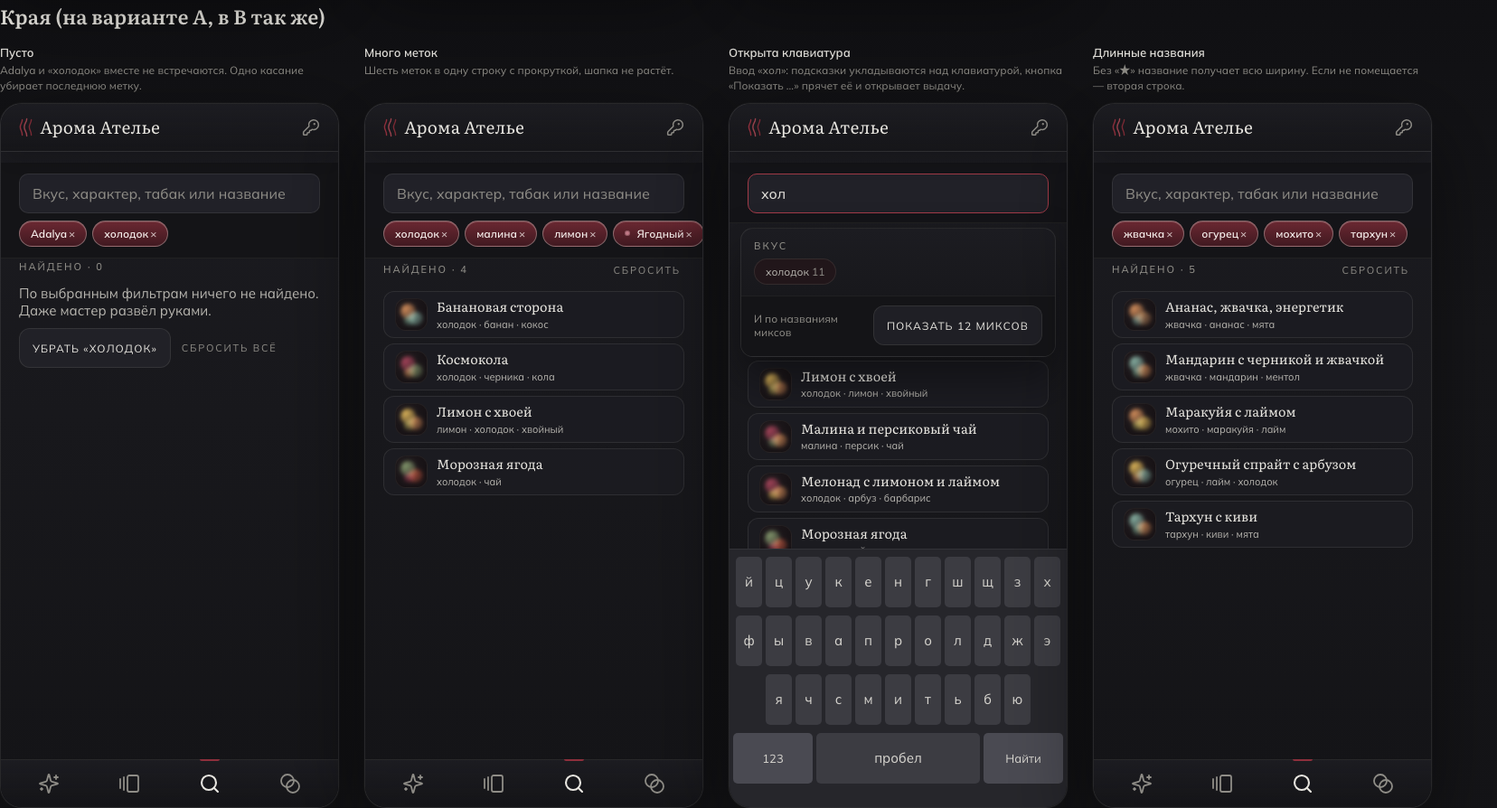
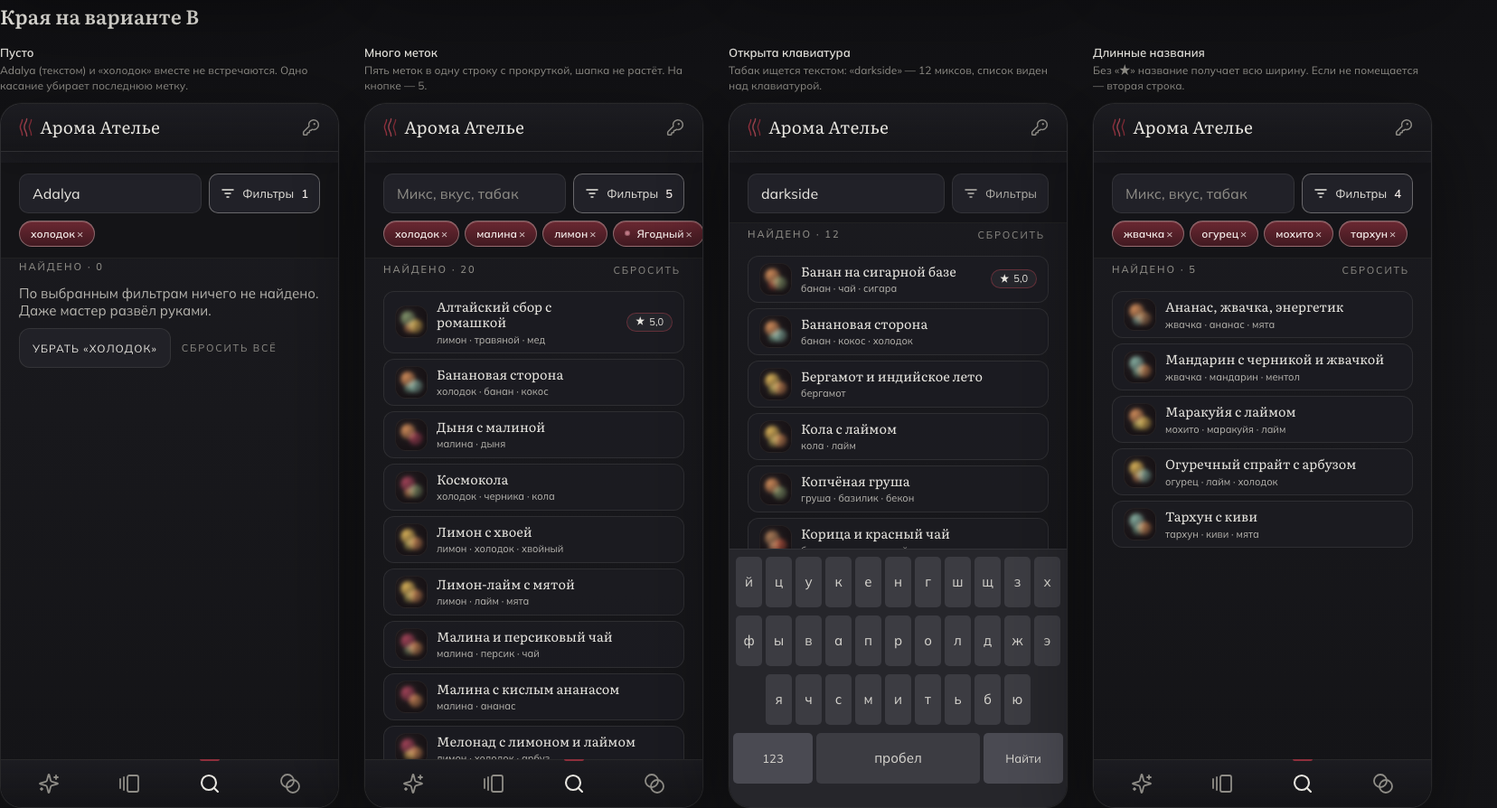
feat(design): Каталог #181, раунд 2 — выбран вариант B «поле и шторка»
Владелец выбрал B: поле поиска и одна кнопка «Фильтры», шторка с
характером и вкусами. A «всё в поле» отвергнут. Края пересняты на B.
Подсказка поля укорочена до «Микс, вкус, табак»: длинная обрезалась
рядом с кнопкой. Подсказок «Табак» нет, табак ищется текстом.
Счётчики характеров остаются как есть до исправления данных в #182.

diff --git a/design/design_handoff_catalog/board.jsx b/design/design_handoff_catalog/board.jsx
@@ -254,7 +254,7 @@ function CtCatalogB({ query, setQuery, tokens, setTokens, onOpenSheet, onOpen })
     <section className="aroma-catalog">
       <div className="aroma-catalog-rail ct-rail">
         <div className="ct-search-row with-btn">
-          <input type="search" className="ct-search" value={query} onChange={(e) => setQuery(e.target.value)} placeholder="Название, вкус или табак" aria-label="Поиск по каталогу" autoComplete="off" />
+          <input type="search" className="ct-search" value={query} onChange={(e) => setQuery(e.target.value)} placeholder="Микс, вкус, табак" aria-label="Поиск по каталогу" autoComplete="off" />
           <button type="button" className={'ct-filter-btn' + (tokens.length ? ' on' : '')} onClick={onOpenSheet} aria-label={tokens.length ? 'Фильтры, выбрано ' + tokens.length : 'Фильтры'}>
             <CtFiltersIcon />
             <span>Фильтры</span>
@@ -387,10 +387,10 @@ const CT_SHOTS = [
   { id: 'b', group: 'b', name: 'B · покой', note: 'Поле и кнопка «Фильтры». Ленты профилей нет, рейтинг только у миксов с оценками.', variant: 'b', init: {} },
   { id: 'b-sheet', group: 'b', name: 'B · шторка фильтров', note: 'Характер и вкусы со счётчиками, частые вкусы первыми, поиск по вкусам. Кнопка показывает, сколько миксов найдётся.', variant: 'b', init: { sheet: true, tokens: [ctFl('холодок')] } },
   { id: 'b-tokens', group: 'b', name: 'B · выбраны «холодок» и «Ягодный»', note: 'Выбранное видно метками под полем, на кнопке — счётчик.', variant: 'b', init: { tokens: [ctFl('холодок'), ctPr('berry')] } },
-  { id: 'edge-empty', group: 'edge', name: 'Пусто', note: 'Adalya и «холодок» вместе не встречаются. Одно касание убирает последнюю метку.', variant: 'a', init: { tokens: [ctBr('Adalya'), ctFl('холодок')] } },
-  { id: 'edge-many', group: 'edge', name: 'Много меток', note: 'Шесть меток в одну строку с прокруткой, шапка не растёт.', variant: 'a', init: { tokens: [ctFl('холодок'), ctFl('малина'), ctFl('лимон'), ctPr('berry'), ctPr('fresh'), ctBr('DARKSIDE')] } },
-  { id: 'edge-keyboard', group: 'edge', name: 'Открыта клавиатура', note: 'Ввод «хол»: подсказки укладываются над клавиатурой, кнопка «Показать …» прячет её и открывает выдачу.', variant: 'a', init: { focused: true, query: 'хол', keyboard: true } },
-  { id: 'edge-long', group: 'edge', name: 'Длинные названия', note: 'Без «★» название получает всю ширину. Если не помещается — вторая строка.', variant: 'a', init: { tokens: [ctFl('жвачка'), ctFl('огурец'), ctFl('мохито'), ctFl('тархун')] } },
+  { id: 'edge-empty', group: 'edge', name: 'Пусто', note: 'Adalya (текстом) и «холодок» вместе не встречаются. Одно касание убирает последнюю метку.', variant: 'b', init: { query: 'Adalya', tokens: [ctFl('холодок')] } },
+  { id: 'edge-many', group: 'edge', name: 'Много меток', note: 'Пять меток в одну строку с прокруткой, шапка не растёт. На кнопке — 5.', variant: 'b', init: { tokens: [ctFl('холодок'), ctFl('малина'), ctFl('лимон'), ctPr('berry'), ctPr('fresh')] } },
+  { id: 'edge-keyboard', group: 'edge', name: 'Открыта клавиатура', note: 'Табак ищется текстом: «darkside» — 12 миксов, список виден над клавиатурой.', variant: 'b', init: { query: 'darkside', keyboard: true } },
+  { id: 'edge-long', group: 'edge', name: 'Длинные названия', note: 'Без «★» название получает всю ширину. Если не помещается — вторая строка.', variant: 'b', init: { tokens: [ctFl('жвачка'), ctFl('огурец'), ctFl('мохито'), ctFl('тархун')] } },
 ];
 
 function CtShotFrame({ shot }) {
@@ -412,7 +412,7 @@ function CtShot({ id }) {
 }
 
 function CtBoard() {
-  const [variant, setVariant] = React.useState('a');
+  const [variant, setVariant] = React.useState('b');
   const section = (group) => CT_SHOTS.filter((shot) => shot.group === group).map((shot) => <CtShotFrame key={shot.id} shot={shot} />);
   return (
     <div className="board">
@@ -421,21 +421,26 @@ function CtBoard() {
         <h1 className="board-title">Каталог: поиск и фильтры в одном месте</h1>
         <p className="board-text">
           Сейчас выдачу настраивают в трёх местах: поле, лента профилей и поповер со вкусами и сортировкой.
-          Два варианта собирают всё у поля поиска. Сортировки нет, «★» только у миксов с оценками (#185),
-          порядок по алфавиту. Данные — 53 микса прода на 16 октября.
+          Два варианта собирают всё у поля поиска, владелец выбрал B: поле и одна шторка «Фильтры».
+          Сортировки нет, «★» только у миксов с оценками (#185), порядок по алфавиту. Данные — 53 микса прода на 16 октября.
         </p>
       </header>
 
       <section className="board-section">
         <h2 className="board-h2">Кликабельный прототип</h2>
         <div className="tweaks">
-          <CtToggle title="Вариант" value={variant} options={[['a', 'A · всё в поле'], ['b', 'B · поле и шторка'], ['now', 'Сейчас']]} onChange={setVariant} />
+          <CtToggle title="Вариант" value={variant} options={[['b', 'B · поле и шторка'], ['a', 'A · всё в поле'], ['now', 'Сейчас']]} onChange={setVariant} />
         </div>
         <div className="board-row">
-          <CtFrame name="Попробуйте: поле → подсказка или «Фильтры» → метка → микс → «Покурить»">
+          <CtFrame name="Попробуйте: «Фильтры» → характер или вкус → метка → микс → «Покурить»">
             <CtPhone key={variant} variant={variant} />
           </CtFrame>
         </div>
+      </section>
+
+      <section className="board-section">
+        <h2 className="board-h2">Итог: B · поле и одна шторка — выбран</h2>
+        <div className="board-row">{section('b')}</div>
       </section>
 
       <section className="board-section">
@@ -444,17 +449,12 @@ function CtBoard() {
       </section>
 
       <section className="board-section">
-        <h2 className="board-h2">A · всё в поле</h2>
+        <h2 className="board-h2">A · всё в поле — отвергнут</h2>
         <div className="board-row">{section('a')}</div>
       </section>
 
       <section className="board-section">
-        <h2 className="board-h2">B · поле и одна шторка</h2>
-        <div className="board-row">{section('b')}</div>
-      </section>
-
-      <section className="board-section">
-        <h2 className="board-h2">Края (на варианте A, в B так же)</h2>
+        <h2 className="board-h2">Края на варианте B</h2>
         <div className="board-row">{section('edge')}</div>
       </section>
     </div>

diff --git a/design/design_handoff_catalog/README.md b/design/design_handoff_catalog/README.md
@@ -1,8 +1,9 @@
 # Handoff: Каталог гостя — поиск и фильтры в одном месте (#181)
 
 Мокап сделан по скиллу `atelier-feature-design`. Сейчас выдачу Каталога `apps/aroma-web`
-настраивают в трёх местах: поле, лента профилей и поповер со вкусами и сортировкой. Оба варианта
-собирают всё у поля поиска и делают список плотнее. Бриф и критерии приёмки —
+настраивают в трёх местах: поле, лента профилей и поповер со вкусами и сортировкой. Реализуется
+вариант **B**: поле поиска и одна кнопка «Фильтры», которая открывает шторку с характером и вкусами.
+Список плотнее. Бриф и критерии приёмки —
 в [issue #181](https://github.com/MelnikovTimofey/yummy/issues/181).
 
 Решения владельца, которые мокап уже учитывает (2026-10-16):
@@ -20,15 +21,15 @@ python3 -m http.server 8765 --bind 127.0.0.1
 
 Затем открыть `http://localhost:8765/design/design_handoff_catalog/mockups.html`.
 
-- Доска — кликабельный прототип: переключатель «A · всё в поле», «B · поле и шторка», «Сейчас».
-  Ниже — экраны для сравнения и края.
+- Доска — кликабельный прототип: переключатель «B · поле и шторка», «A · всё в поле», «Сейчас».
+  Ниже — итог B, «Сейчас», отвергнутый A и края на B.
 - `mockups.html#shot=<id>` — один телефон 375×780 без доски, для скриншотов в issue и PR.
   Доступные `id`:
+  - итог B: `b`, `b-sheet`, `b-tokens`;
+  - края на B: `edge-empty`, `edge-many`, `edge-keyboard`, `edge-long`;
   - Сейчас: `now`, `now-hidden`;
-  - A: `a`, `a-focus`, `a-typing`, `a-tokens`;
-  - B: `b`, `b-sheet`, `b-tokens`;
-  - края: `edge-empty`, `edge-many`, `edge-keyboard`, `edge-long`.
-- `screens/` — снимки секций доски: `now.png`, `variant-a.png`, `variant-b.png`, `edges.png`.
+  - A (отвергнут): `a`, `a-focus`, `a-typing`, `a-tokens`.
+- `screens/` — снимки секций доски: `final.png` (итог B), `edges.png` (края на B), `now.png`, `variant-a.png`.
 
 ## Файлы
 
@@ -43,21 +44,21 @@ python3 -m http.server 8765 --bind 127.0.0.1
 
 ## Варианты
 
-Решение владельца — **ждём**.
+Владелец выбрал **B · поле и шторка** (2026-10-16).
 
-| Что | Вариант | Как выглядит |
-|---|---|---|
-| Где живут фильтры | **A · всё в поле** (`a`) | Одно поле «Вкус, характер, табак или название». Фокус открывает панель подсказок прямо под полем: частые вкусы, характер, табак, у каждого счётчик миксов. При вводе подсказки фильтруются по вхождению и делятся по типам. Касание превращает подсказку в метку, текст очищается, панель остаётся открытой. Кнопок рядом с полем нет. |
-| | **B · поле и шторка** (`b`) | Поле «Название, вкус или табак» и кнопка «Фильтры» со счётчиком выбранного. Кнопка открывает шторку, как у карточки микса: характер и вкусы со счётчиками, частые вкусы первыми, поиск по вкусам, «Все 75 вкусов». Кнопка внизу показывает, сколько миксов найдётся. Табак ищется только текстом в поле. |
+| Что | Вариант | Решение | Как выглядит |
+|---|---|---|---|
+| Где живут фильтры | **B · поле и шторка** (`b`) | **выбран** | Поле «Микс, вкус, табак» и кнопка «Фильтры» со счётчиком выбранного. Кнопка открывает шторку, как у карточки микса: характер и вкусы со счётчиками, частые вкусы первыми, поиск по вкусам, «Все 75 вкусов». Кнопка внизу показывает, сколько миксов найдётся. Табак ищется текстом в поле. |
+| | A · всё в поле (`a`) | отвергнут | Одно поле, фокус открывает панель подсказок под полем: частые вкусы, характер, табак со счётчиками. Касание превращает подсказку в метку. Панель поверх списка требует ручной подгонки под клавиатуру. |
 
 Что видно на 375×780 в покое (тонкая шапка, нижняя панель, клавиатура закрыта):
 - сейчас — 7 строк, рейл фильтров 100 px;
 - A и B — 9 строк, рейл 67 px (с метками — 106 px).
 
-## Что реализовать в любом варианте
+## Что реализовать
 
 1. **Поле поиска** — 44 px, шрифт 16 px (иначе iPhone увеличивает страницу при фокусе),
-   `aria-label` «Поиск по каталогу».
+   подсказка «Микс, вкус, табак», `aria-label` «Поиск по каталогу».
 2. **Ленту профилей и поповер с сортировкой убрать.** Сортировки нет: порядок по алфавиту
    (`localeCompare(…, 'ru')`).
 3. **Метки выбранного** — под полем, одной строкой с горизонтальной прокруткой, шапка не растёт:
@@ -73,23 +74,11 @@ python3 -m http.server 8765 --bind 127.0.0.1
 6. **Пустое состояние**: «По выбранным фильтрам ничего не найдено. Даже мастер развёл руками.»,
    под ним «Убрать «<последняя метка>»» (`aroma-ghost-sm`) и «Сбросить всё».
 7. **Логика фильтра** не меняется: внутри типа — «или», между типами и с текстом — «и».
-   Новый тип метки — табак: фильтр по `components[].manufacturer`.
+   Табак отдельной меткой не бывает: его находит текстовый поиск, он уже смотрит в `components[].manufacturer`.
 8. **Счётчики** вкусов и характеров — `flavorCounts` и `profileCounts` из
-   `/guest/onboarding/options`, они уже приходят. Счётчики табаков считаются на клиенте по каталогу.
-   Контракт backend не меняется.
+   `/guest/onboarding/options`, они уже приходят. Контракт backend не меняется.
 
-### Только A
-
-- Панель подсказок живёт **внутри sticky-рейла** с `position: absolute` под полем. Урок #179:
-  в потоке после рейла она уедет за экран при прокрутке.
-- Фон непрозрачный (`--bg-raised` → `--bg-base`), иначе сквозь панель читается список.
-  Нижняя строка «Показать N миксов» закреплена (`position: sticky`) и закрывает панель.
-- Без ввода: 8 частых вкусов, все характеры, 8 табаков — по убыванию счётчика.
-  С вводом: группы «Характер», «Вкус», «Табак», в каждой до 8 подсказок, уже выбранные не показываются.
-- Высота панели — до верхней кромки клавиатуры (`visualViewport.height`), лишнее прокручивается.
-- Касание строки микса закрывает панель.
-
-### Только B
+### Кнопка «Фильтры» и шторка
 
 - Кнопка «Фильтры» — inline-SVG «три линии», текст «Фильтры» и число выбранного кремовым.
   Активная рамка — `--guest-chip-border-on`.
@@ -110,13 +99,12 @@ python3 -m http.server 8765 --bind 127.0.0.1
 - `tests/smoke/tests/aroma-smoke.spec.ts`: строки 39 и 199 ищут поле по
   `getByPlaceholder('Поиск по названию и описанию')`. Подсказка меняется, поэтому заменить на
   `getByRole('searchbox', { name: 'Поиск по каталогу' })`. `getByText(/Найдено/)` (строка 40) останется зелёным.
-- `aroma-atelier-design`:
-  - обновить `CatalogScreen` в гостевом ките и строку о Каталоге в `ui_kits/aroma-guest/README.md`;
-  - в варианте A из ICONOGRAPHY (`readme.md`) уходит inline-SVG «ползунки», в B она остаётся.
+- `aroma-atelier-design`: обновить `CatalogScreen` в гостевом ките и строку о Каталоге в
+  `ui_kits/aroma-guest/README.md`. Inline-SVG «ползунки» в ICONOGRAPHY остаётся — теперь на кнопке «Фильтры».
 
-## Вопросы владельцу
+## Решения по вопросам (2026-10-16)
 
-1. Вариант: A или B?
-2. Нужны ли подсказки «Табак» (в A) или табак достаточно искать текстом, как в B?
-3. Счётчики у характеров показывают «Фруктовый 47» — оставить их до исправления #182 или
-   показывать характеры без счётчиков?
+1. Вариант — **B**.
+2. Подсказок «Табак» нет: в B табак ищется текстом в поле.
+3. Счётчики у характеров остаются как есть («Фруктовый 47»). Это следует из решения по #181:
+   до исправления данных в #182 обходов в интерфейсе не делаем.
